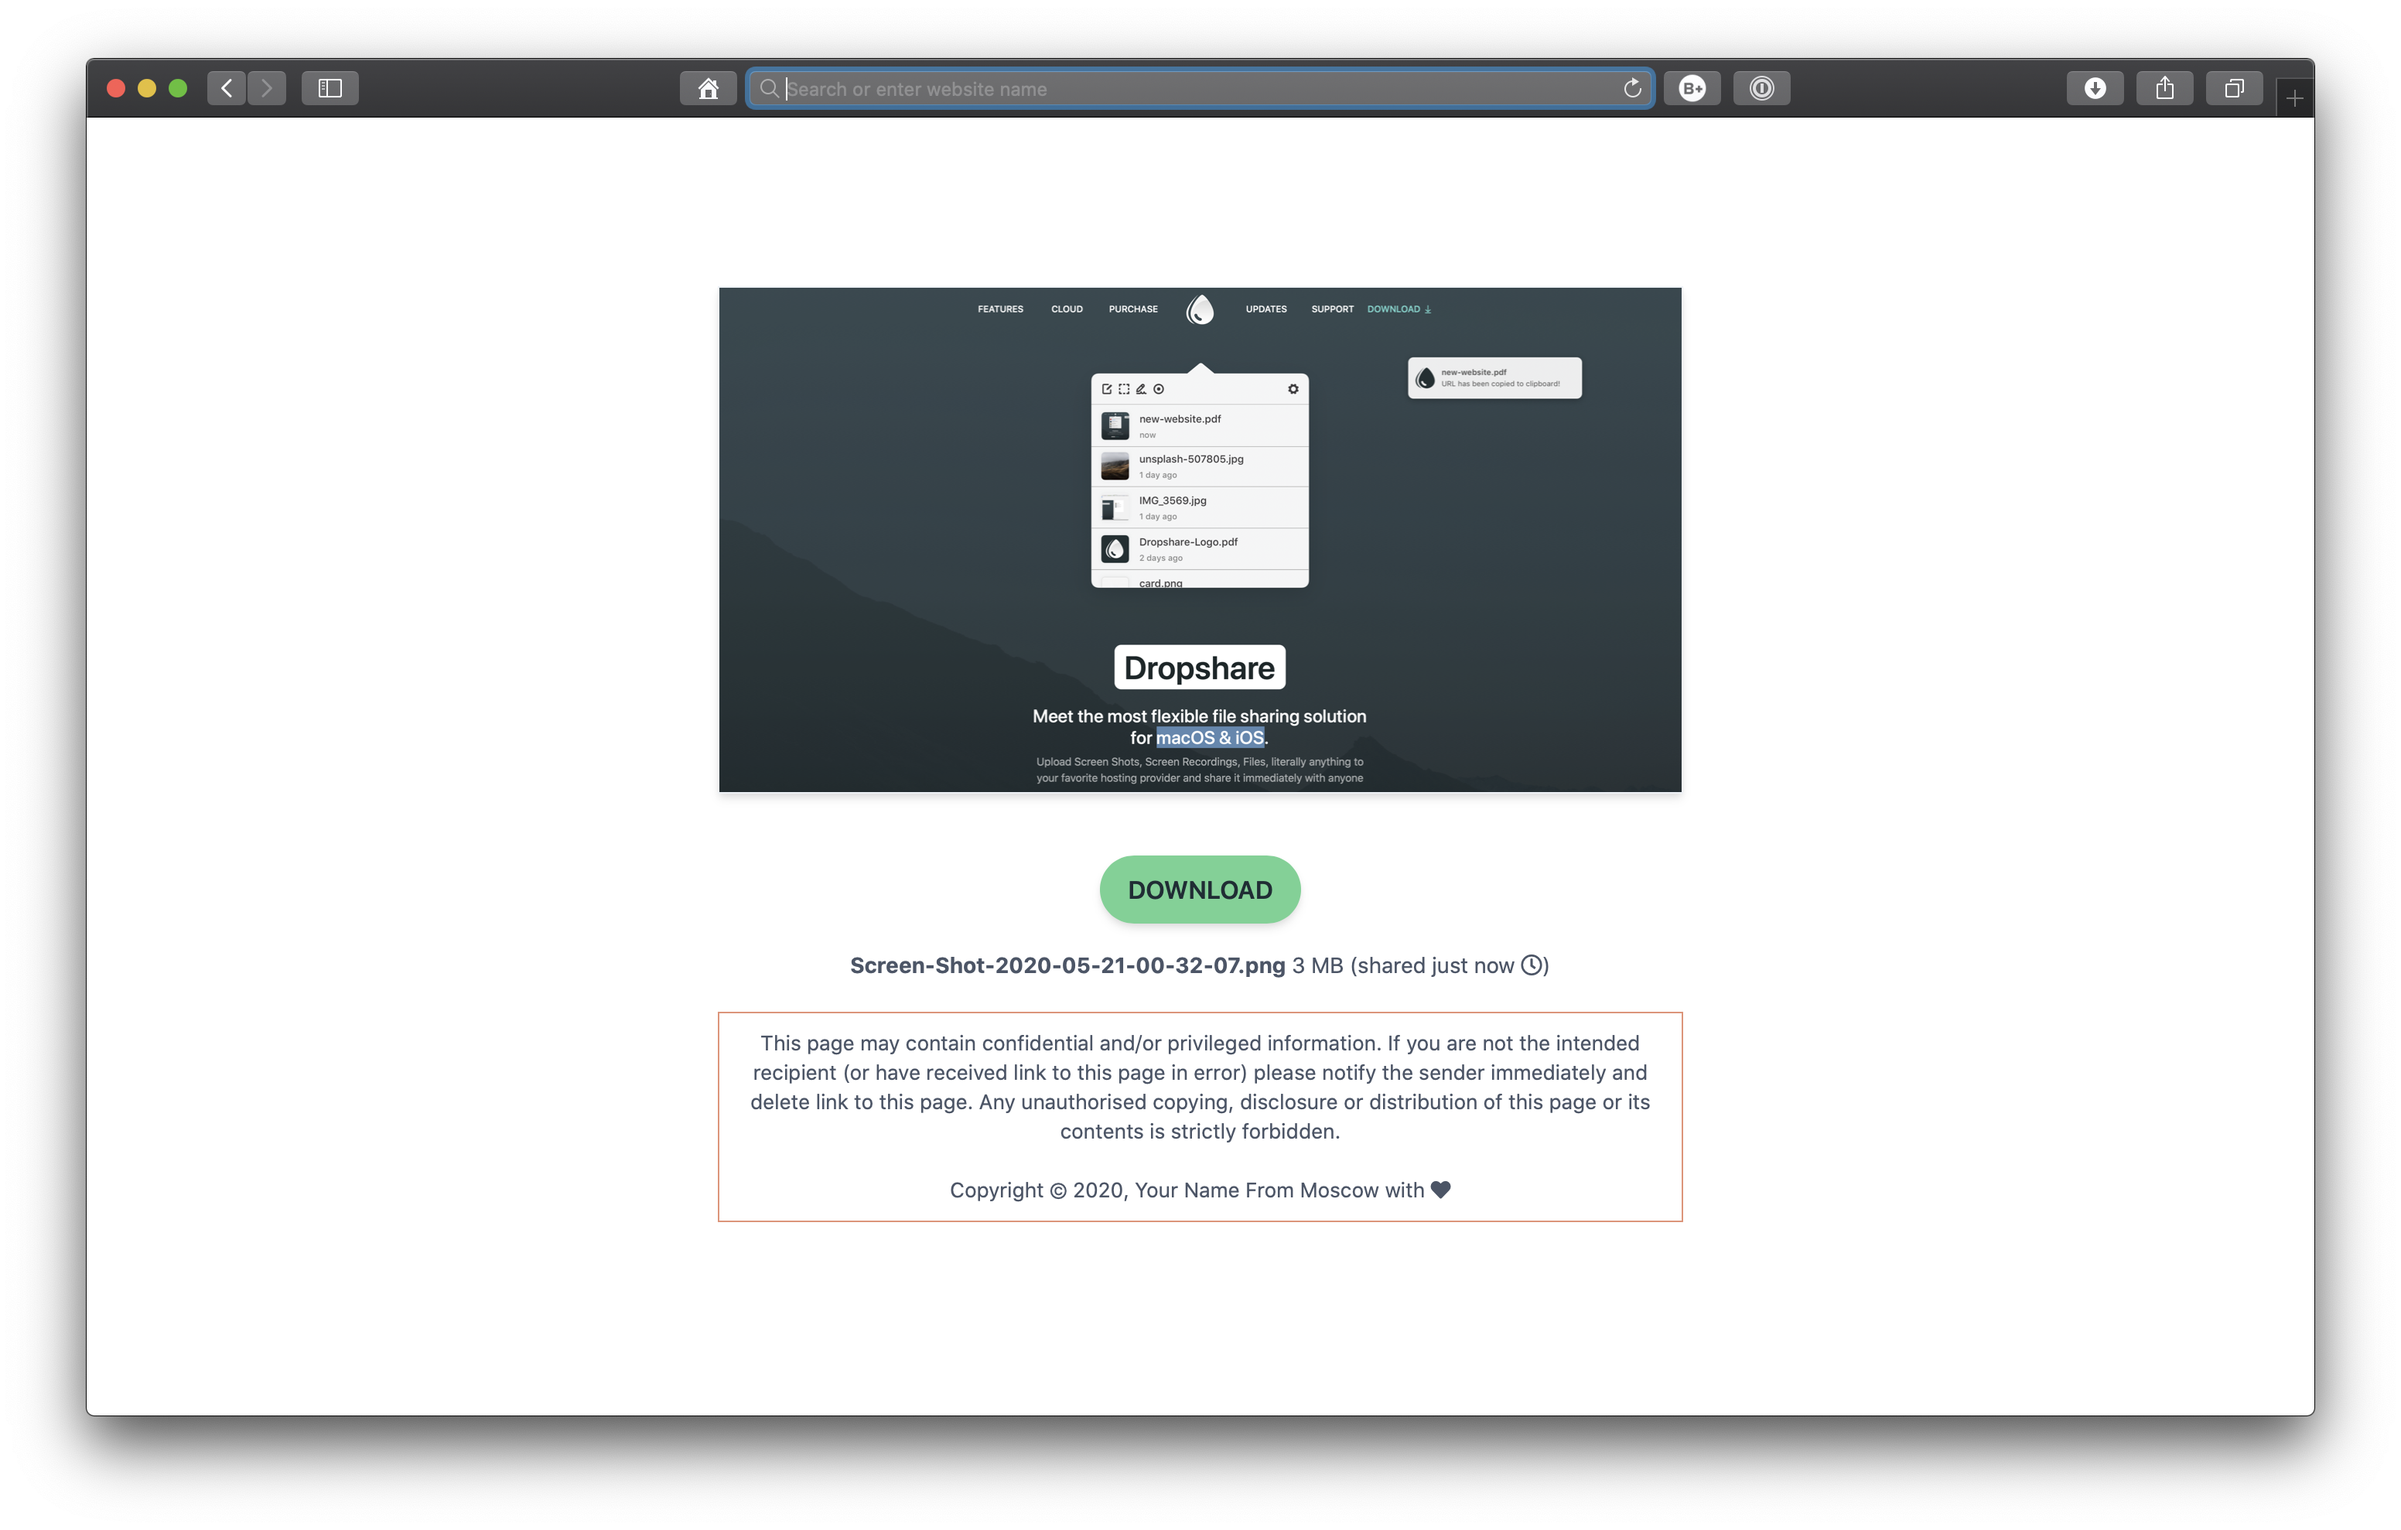
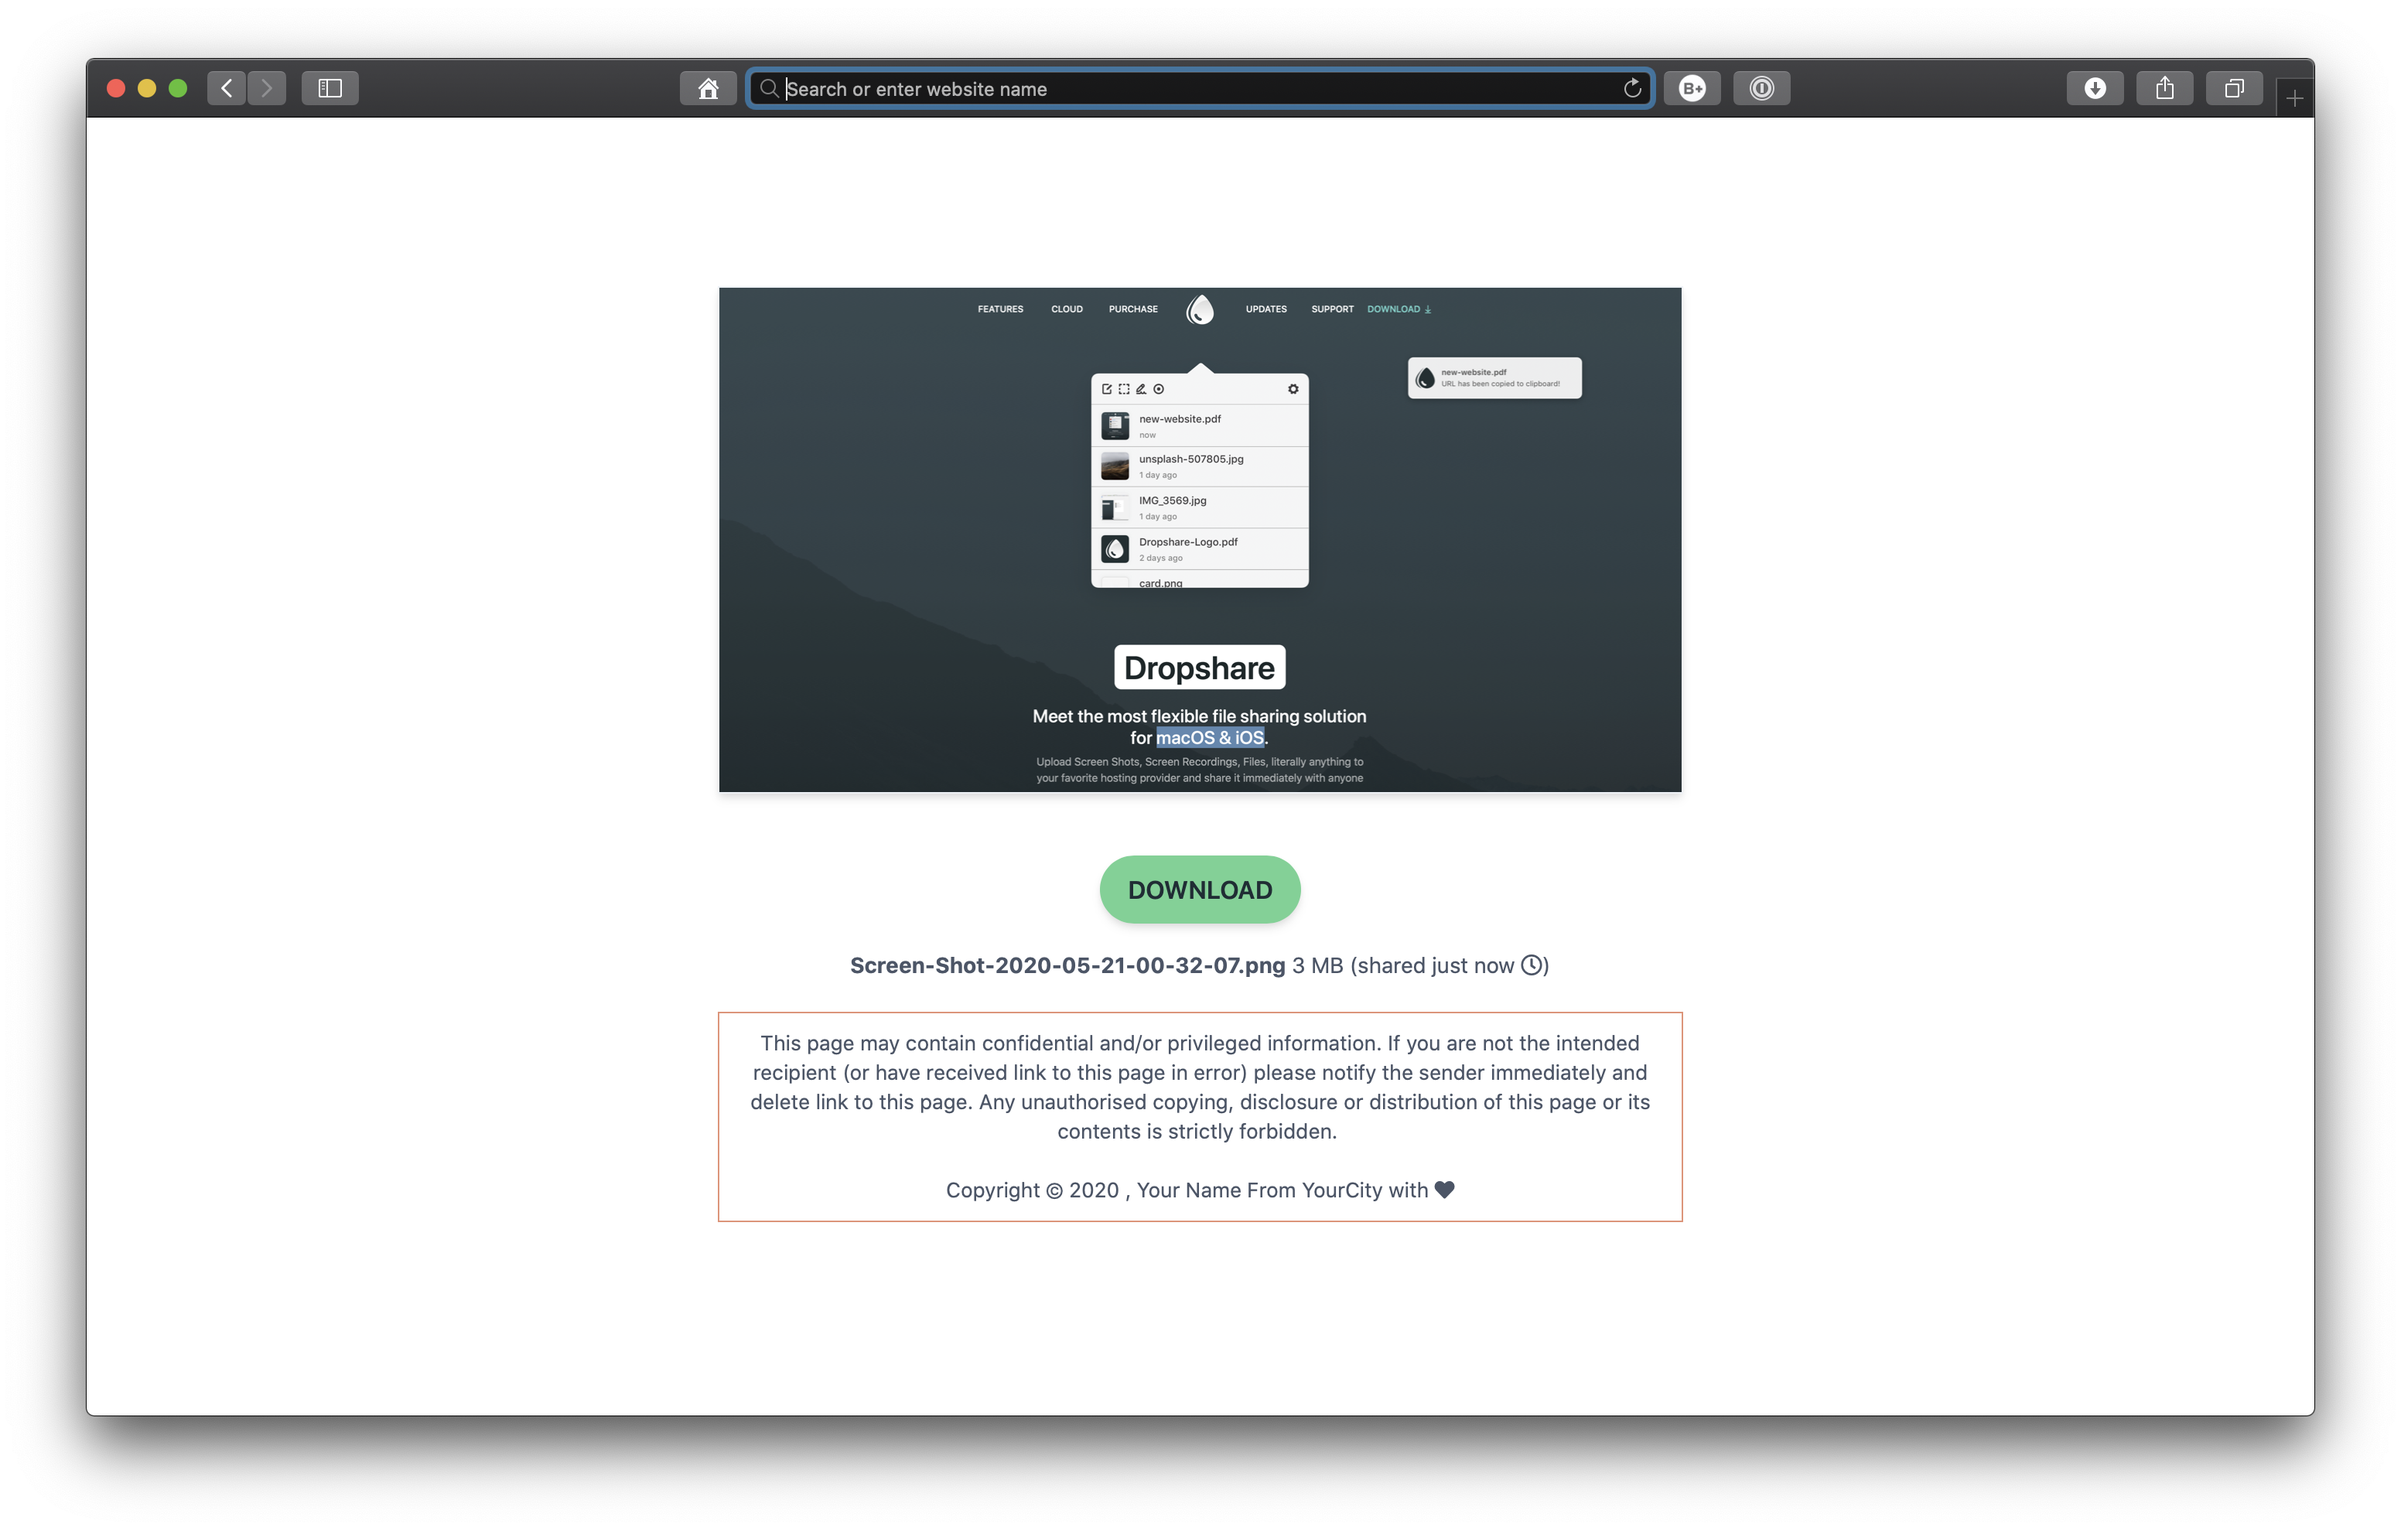
initia

Changed region(s): [[0.3125, 0.0308, 0.6875, 0.0925], [0.4062, 0.771, 0.5938, 0.8018], [0.5, 0.7093, 0.5312, 0.7401]]

diff --git a/README.md b/README.md
@@ -9,9 +9,10 @@ Minimal and simple HTML template you can use with Dropshare (macOS & iOS) [Drops
  # Features
 
  - Clean and simple design
- - [instant.page](https://instant.page) preloads a screenshot right before a user clicks on it
+ - [instant.page](https://instant.page)
  - Open Graph tags
  - JS copyright year
+ - Nice and clean upload date and time
  - Confidentiality notice
 
  # Installation
